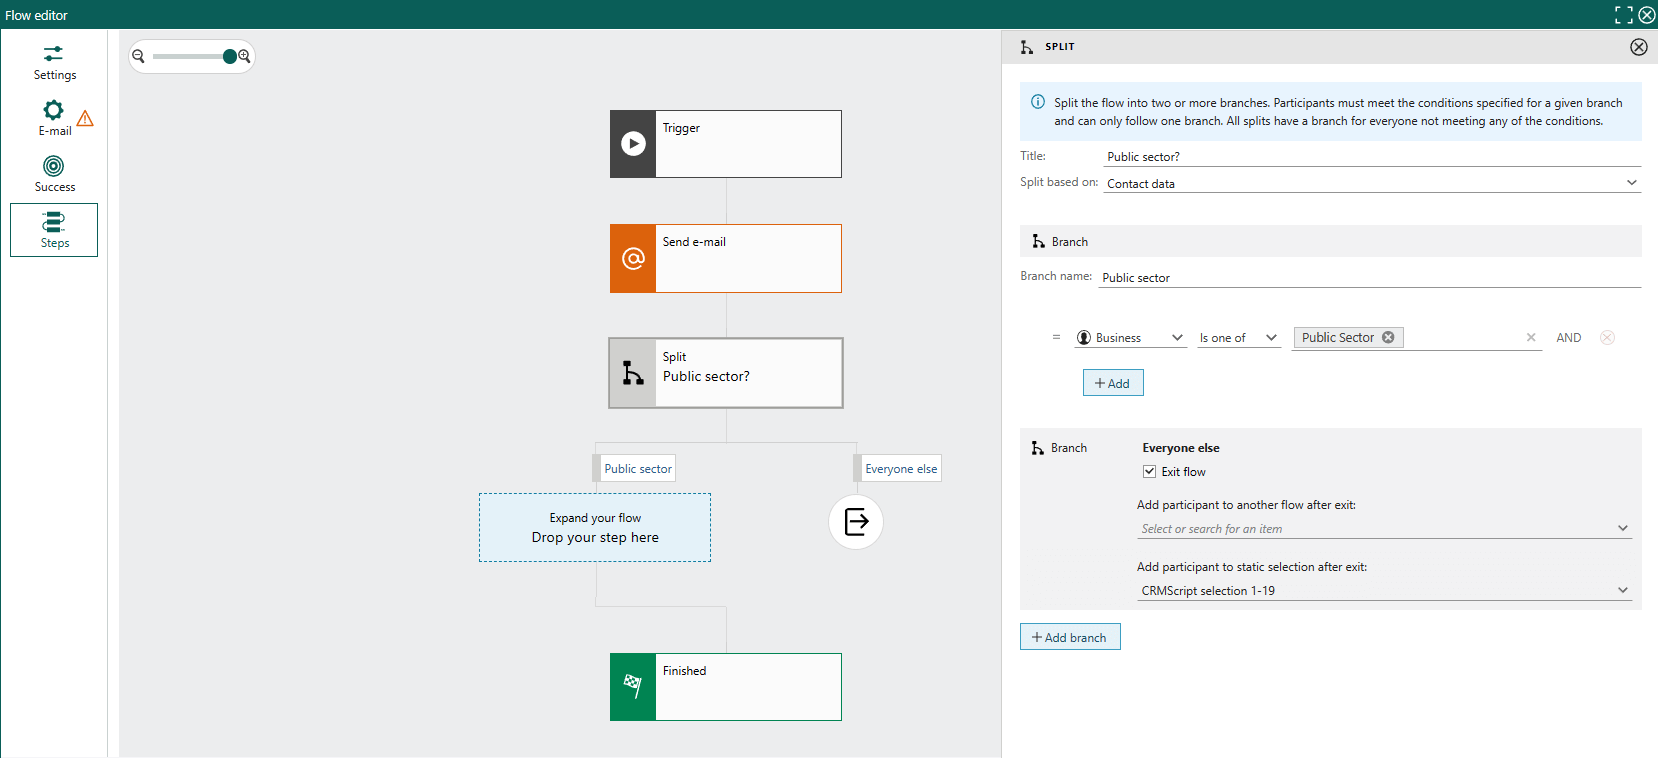
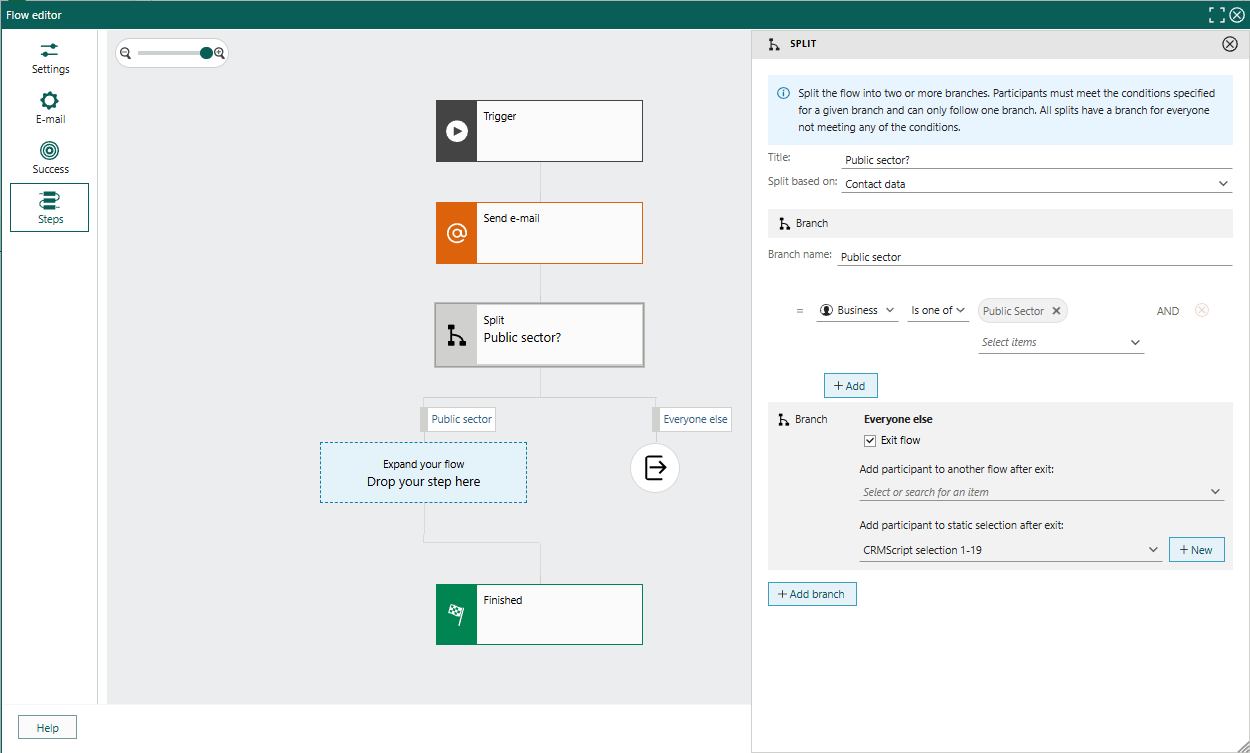
#1213 can add new selection

diff --git a/docs/de/marketing/flows/learn/step-settings.md b/docs/de/marketing/flows/learn/step-settings.md
@@ -4,8 +4,8 @@ title: Schrittoptionen
 description: Übersicht über die Optionen für die verschiedenen Flow-Schritte.
 keywords: Marketing, Flow, Schritt, Feld, Option
 author: Bergfrid Dias
-so.date: 05.31.2024
-so.version: 10.3.5
+so.date: 06.11.2024
+so.version: 10.3.7
 so.topic: howto
 language: de
 so.audience: person
@@ -61,9 +61,18 @@ so.pilot: yes
 | Datum | Das geschätzte Verkaufsdatum. Optionen sind "Geschätzt nach Verkaufstyp" oder "Nach x Tagen/Arbeitstagen/Wochen". |
 | Eigerntümer | Die Person, die für den Verkauf verantwortlich ist. Der "unser Kontakt" des Teilnehmers oder "unser Servicemitarbeiter" oder ein bestimmter benannter Mitarbeiter. |
 
-## Flow beenden
+## Flow schließen
 
-Teilnehmer, die den Abgeschlossenschritt erreichen, haben den Flow abgeschlossen. Der Teilnehmerstatus kann entweder "Abgeschlossen" oder "Mit Erfolg abgeschlossen" sein. Es werden keine weiteren Aktionen für einen Teilnehmer in diesem Flow durchgeführt, sobald dieser Schritt erreicht ist.
+Die Flusskontrollschritte **Aufteilen** und **Auf Aktion warten** (und auch SMS senden) haben eine Option **Flow beenden**, um Teilnehmer, die eine Bedingung nicht erfüllen, aus dem Flow zu ziehen. Wenn ausgewählt, kann der ausgeschiedene Person in einen anderen Flow verschoben und/oder einer Selektion hinzugefügt werden.
+
+| Einstellung | Beschreibung |
+|---|---|
+| Teilnehmer nach dem Beenden zu einem anderen Flow hinzufügen | Der ausgeschiedene Person wird als Teilnehmer für den angegebenen Flow vorgeschlagen. Filter bestimmen, ob sie diesen Flow starten oder nicht. |
+| Teilnehmer nach dem Beenden zur statischen Selektion hinzufügen | Der ausgeschiedene Person wird Mitglied der angegebenen Selektion. Sie können eine neue Selektion über die Schritt-Einstellungen erstellen. |
+
+## Abschließen
+
+Teilnehmer, die den Abschlussschritt erreichen, haben das Ende des Flows erreicht. Der Teilnehmer hat den Flow entweder mit dem Status = abgeschlossen oder mit Erfolg abgeschlossen. Es erfolgen keine weiteren Aktionen für einen Teilnehmer in diesem Flow, wenn der Schritt erreicht wird.
 
 | Einstellung | Beschreibung |
 |---|-|

diff --git a/docs/de/marketing/flows/learn/define-flow-actions.md b/docs/de/marketing/flows/learn/define-flow-actions.md
@@ -96,10 +96,8 @@ Dies funktioniert ähnlich wie das [Massenabgleich][11].
 
 Behalten Sie den Überblick über diejenigen, die sich angemeldet oder engagiert haben, oder verfolgen und folgen Sie später nach. Der Person wird als Mitglied der angegebenen Selektion und/oder des Projekts hinzugefügt.
 
-Bevor Sie beginnen, erstellen Sie eine Selektion und/oder ein Projekt, falls erforderlich. Alternativ können Sie die Schritteinstellungen später aktualisieren.
-
 1. Ziehen Sie das **Zur Selektion und/oder zum Projekt hinzufügen**-Feld aus dem Schrittmenü und lassen Sie es in einem verfügbaren Slot im Diagrammm fallen.
-1. Fügen Sie den Person zur statischen Selektion hinzu: Wählen Sie eine statische Person-Selektion aus der Liste.
+1. Fügen Sie den Person zur statischen Selektion hinzu: Wählen Sie eine statische Person-Selektion aus der Liste oder klicken Sie auf **Neu**, um eine neue zu erstellen.
 1. Fügen Sie den Person als Projektmitglied hinzu: Wählen Sie ein Projekt aus der Liste.
 
 > [!TIP]

diff --git a/docs/no/marketing/flows/learn/step-settings.md b/docs/no/marketing/flows/learn/step-settings.md
@@ -4,8 +4,8 @@ title: Trinninnstillinger
 description: Oversikt over innstillinger for de ulike flyttrinnene.
 keywords: flyt, markedsføring, automatisering, trinn, trinninnstilling, trinnfelt
 author: Bergfrid Dias
-so.date: 05.24.2024
-so.version: 10.3.5
+so.date: 06.11.2024
+so.version: 10.3.7
 so.topic: reference
 language: no
 so.audience: person
@@ -68,7 +68,7 @@ Flytkontrolltrinnene **Del** og **Vent på hendelse** (og også Send SMS) har et
 | Innstilling | Beskrivelse |
 |---|---|
 | Legg til en deltaker i en annen flyt etter at du har avsluttet | Personen blir **foreslått** som deltaker for den angitte flyten. Filtre bestemmer om de starter den flyten eller ikke. |
-| Legg til en deltaker i et statisk utvalg etter at du har avsluttet | Personen blir medlem av det angitte utvalget. |
+| Legg til en deltaker i et statisk utvalg etter at du har avsluttet | Personen blir medlem av det angitte utvalget. Du kan opprette et nytt utvalg fra trinninnstillingene. |
 
 ## Avsluttet
 

diff --git a/docs/en/marketing/flows/learn/step-settings.md b/docs/en/marketing/flows/learn/step-settings.md
@@ -4,8 +4,8 @@ title: Step settings
 description: Overview of settings for the various flow steps.
 keywords: flow, automation, step, step setting, step field
 author: Bergfrid Dias, Trude Lien Smedbråten
-so.date: 05.15.2024
-so.version: 10.3.5
+so.date: 06.11.2024
+so.version: 10.3.7
 so.topic: reference
 language: en
 so.audience: person
@@ -68,7 +68,7 @@ The flow-control steps **split** and **wait for action** (and also Send SMS) hav
 | Setting | Description |
 |---|---|
 | Add participant to another flow after exit | The dropped-out contact is **suggested** as participant for the specified flow. Filters determine if they start that flow or not. |
-| Add participant to static selection after exit | The dropped-out contact becomes member of the specified selection. |
+| Add participant to static selection after exit | The dropped-out contact becomes member of the specified selection. You can create a new selection from the step settings. |
 
 ## Finish
 

diff --git a/docs/de/marketing/flows/learn/update.md b/docs/de/marketing/flows/learn/update.md
@@ -4,8 +4,8 @@ title: Flow aktualisieren
 description: Flow aktualisieren
 keywords: Marketing, Flow, aktualisieren
 author: Bergfrid Dias
-so.date: 05.31.2024
-so.version: 10.3.5
+so.date: 06.11.2024
+so.version: 10.3.7
 so.topic: howto
 language: de
 so.audience: person
@@ -15,7 +15,7 @@ so.pilot: yes
 
 # Flow aktualisieren
 
-Es ist nützlich, mit einem einfachen Flow zu beginnen und ihn nach Überwachung der Leistung zu erweitern. Möglicherweise möchten Sie auch einen Flow während seiner Gestaltung aktualisieren. Beispielsweise möchten Sie erfolgreiche Teilnehmer zu einer Selektion hinzufügen, müssen aber die Selektion erst erstellen, bevor Sie sie auswählen können.
+Es ist nützlich, mit einem einfachen Flow zu beginnen und ihn nach Überwachung der Leistung zu erweitern. Möglicherweise möchten Sie auch einen Flow während seiner Gestaltung aktualisieren.
 
 Um Änderungen vorzunehmen:
 

diff --git a/docs/no/marketing/flows/learn/update.md b/docs/no/marketing/flows/learn/update.md
@@ -4,8 +4,8 @@ title: Oppdater flyt
 description: Oppdater flyt
 keywords: flyt, markedsføring, rediger flyt
 author: Bergfrid Dias
-so.date: 05.24.2024
-so.version: 10.3.5
+so.date: 06.11.2024
+so.version: 10.3.7
 so.topic: howto
 language: no
 so.audience: person
@@ -15,7 +15,7 @@ so.pilot: yes
 
 # Oppdater flyt
 
-Det er nyttig å begynne med en enkel flyt og utvide den etter hvert som du overvåker ytelsen. Du kan også ønske å oppdatere en flyt mens du designer den. For eksempel ønsker du å legge til vellykkede deltakere i et utvalg, men må opprette utvalget før du kan velge det.
+Det er nyttig å begynne med en enkel flyt og utvide den etter hvert som du overvåker ytelsen. Du kan også ønske å oppdatere en flyt mens du designer den.
 
 For å gjøre endringer:
 

diff --git a/docs/en/marketing/flows/learn/update.md b/docs/en/marketing/flows/learn/update.md
@@ -4,8 +4,8 @@ title: Update flow
 description: Update flow
 keywords: flow, marketing automation, edit flow
 author: Bergfrid Dias, Trude Lien Smedbråten
-so.date: 05.15.2024
-so.version: 10.3.5
+so.date: 06.11.2024
+so.version: 10.3.7
 so.topic: howto
 language: en
 so.audience: person
@@ -15,7 +15,7 @@ so.pilot: yes
 
 # Update flow
 
-It is useful to start with a simple flow and extend it after monitoring the performance. You might also want to update a flow while designing it. For example, you wish to add successful participants to a selection, but need to create the selection before you can choose it.
+It is useful to start with a simple flow and extend it after monitoring the performance. You might also want to update a flow while designing it.
 
 To make changes:
 

diff --git a/docs/no/marketing/flows/learn/define-flow-actions.md b/docs/no/marketing/flows/learn/define-flow-actions.md
@@ -96,10 +96,8 @@ Dette fungerer på samme måte som [masseoppdatering][11].
 
 Hold oversikt over de som meldte seg på, var engasjert, eller for å følge opp senere. Personen legges til som medlem i det angitte utvalget og/eller prosjektet.
 
-Før du begynner, opprett et utvalg og/eller prosjekt hvis nødvendig. Alternativt kan du oppdatere trinninstillingene senere.
-
 1. Dra **Legg til i utvalg/prosjekt**-boksen fra trinnmenyen og slipp den i en tilgjengelig plass i flytskjemaet.
-1. Legg til person i statisk utvalg: velg et statisk personutvalg fra listen.
+1. Legg til person i statisk utvalg: velg et statisk personutvalg fra listen, eller klikk på **Ny** for å opprette et nytt.
 1. Legg til person som prosjektmedlem: velg et prosjekt fra listen.
 
 > [!TIP]

diff --git a/docs/en/marketing/flows/learn/define-flow-actions.md b/docs/en/marketing/flows/learn/define-flow-actions.md
@@ -96,10 +96,9 @@ This works similar to [bulk update][11].
 
 Keep an overview of those who signed up, or was engaged, or to keep track and follow-up on later. The contact is added as member to the specified selection and/or project.
 
-Before you begin, create a selection and/or project if necessary. Alternatively, update the step settings later.
-
 1. Drag the **Add to selection and/or project** box from the step menu and drop it into an available slot in the flowchart.
-1. Add contact to static selection: choose a static contact selection from the list.
+1. Add contact to static selection: choose a static contact selection from the list or click **New** to create a new one.
+
 1. Add contact as project member: choose a project from the list.
 
 > [!TIP]
